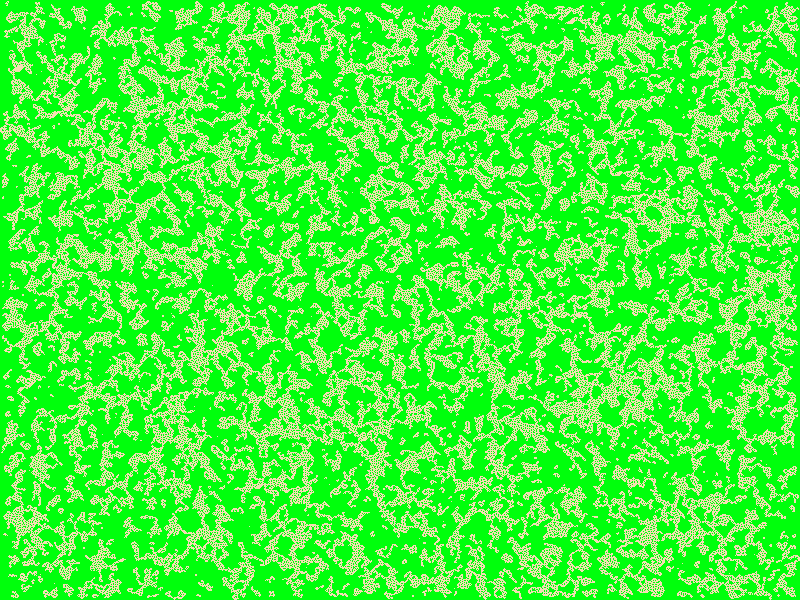
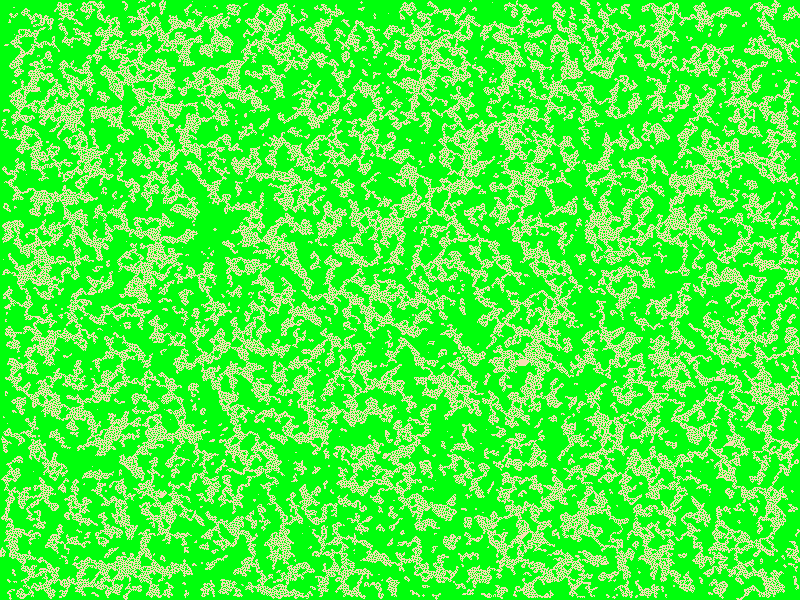
improved map creator

diff --git a/testbed/createmap.py b/testbed/createmap.py
@@ -8,7 +8,7 @@ def createmap(sizex, sizey, scale, octaves, persistence, lacunarity):
     water = [65,105,225]
     grass = [34,139,34]
     forest = [0, 255, 12]
-    farmland = [245, 222, 179]
+    farmland = [139,69,19]
     beach = [238, 214, 175]
     for i in range(sizey):
         for j in range(sizex):
@@ -17,19 +17,20 @@ def createmap(sizex, sizey, scale, octaves, persistence, lacunarity):
                                     octaves=octaves, 
                                     persistence=persistence, 
                                     lacunarity=lacunarity, 
-                                    repeatx=1024, 
-                                    repeaty=1024, 
-                                    base=0)
+                                    repeatx=2048, 
+                                    repeaty=2048, 
+                                    base=1)
     set_image = numpy.zeros(img.shape)
     for i in range(sizey):
         for j in range(sizex):
-            if img[i][j] < -0.05:
+            if img[i][j] < -0.02:
                 set_image[i][j] = 0
             elif img[i][j] < 0:
                 set_image[i][j] = 1
             elif img[i][j] < 1.0:
                 set_image[i][j] = 2
-    flood_img = cellular_automata(sizex, sizey)
+    forest_img = cellular_automata(sizex, sizey)
+    farmland_img = cellular_automata(sizex, sizey, 0.7, 6, 4, 6, 3)
     color_image = numpy.zeros(img.shape+(3,))
     for i in range(sizey):
         for j in range(sizex):
@@ -38,51 +39,53 @@ def createmap(sizex, sizey, scale, octaves, persistence, lacunarity):
             elif set_image[i][j] == 1:
                 color_image[i][j] = beach
             elif set_image[i][j] == 2:
-                if flood_img[i][j] == 0:
+                if forest_img[i][j] == 0:
                     color_image[i][j] = forest
-                elif flood_img[i][j] == 1:
-                    color_image[i][j] == farmland
+                elif forest_img[i][j] == 1:
+                    if farmland_img[i][j] == 0:
+                        color_image[i][j] = farmland
+                    elif farmland_img[i][j] == 1:
+                        color_image[i][j] = grass
 
     imageio.imwrite('noise.png', color_image)
 
-def cellular_automata(sizex, sizey):
+def cellular_automata(sizex, sizey, live_chance = 0.4, nrofsimsteps = 7, starvationLimit = 4, overpopLimit = 6, birthNumber = 4):
     shape = (sizey, sizex)
-    Forest = 0
-    Farm = 1
-    forestsize = 0.4
+    dead = 0
+    live = 1
+    
 
     new_map = numpy.ones(shape)
     for i in range(shape[0]):
         for j in range(shape[1]):
             choice = random.uniform(0, 1)
-            new_map[i][j] = Forest if choice < forestsize else Farm
+            new_map[i][j] = dead if choice < live_chance else live
 
-    # run for 6 generations
-    nrofsimsteps = 7
-    starvationLimit = 4
-    overpopLimit = 6
-    birthNumber = 4
     temp_map = numpy.ones(shape)
+
     for simstep in range(nrofsimsteps):
         for i in range(shape[0]):
             for j in range(shape[1]):
                 farmtiles = nr_of_farmtiles(new_map, j, i, shape)
-                if new_map[i][j] == Farm:
+                if new_map[i][j] == live:
                     if farmtiles < starvationLimit:
-                        temp_map[i][j] = Forest
+                        temp_map[i][j] = dead
                     if farmtiles > overpopLimit:
-                        temp_map[i][j] = Forest
+                        temp_map[i][j] = dead
                 else:
                     if farmtiles == birthNumber:
-                        temp_map[i][j] = Farm
+                        temp_map[i][j] = live
 
         new_map = temp_map
-
-    colored = numpy.ones(shape+(3,))
+    noiseimg = numpy.ones(shape+(3,))
     for i in range(shape[0]):
         for j in range(shape[1]):
-            colored[i][j] = [0, 255, 12] if new_map[i][j] == Forest else [245, 222, 179]
-    imageio.imwrite('colored.png', colored)
+            if new_map[i][j] == 0:
+                noiseimg[i][j] = [245, 222, 179]
+            else:
+                noiseimg[i][j] = [34,139,34]
+    
+    imageio.imwrite('noise1.png', noiseimg)
     return new_map
 
 def nr_of_farmtiles(old_map, x, y, shape):
